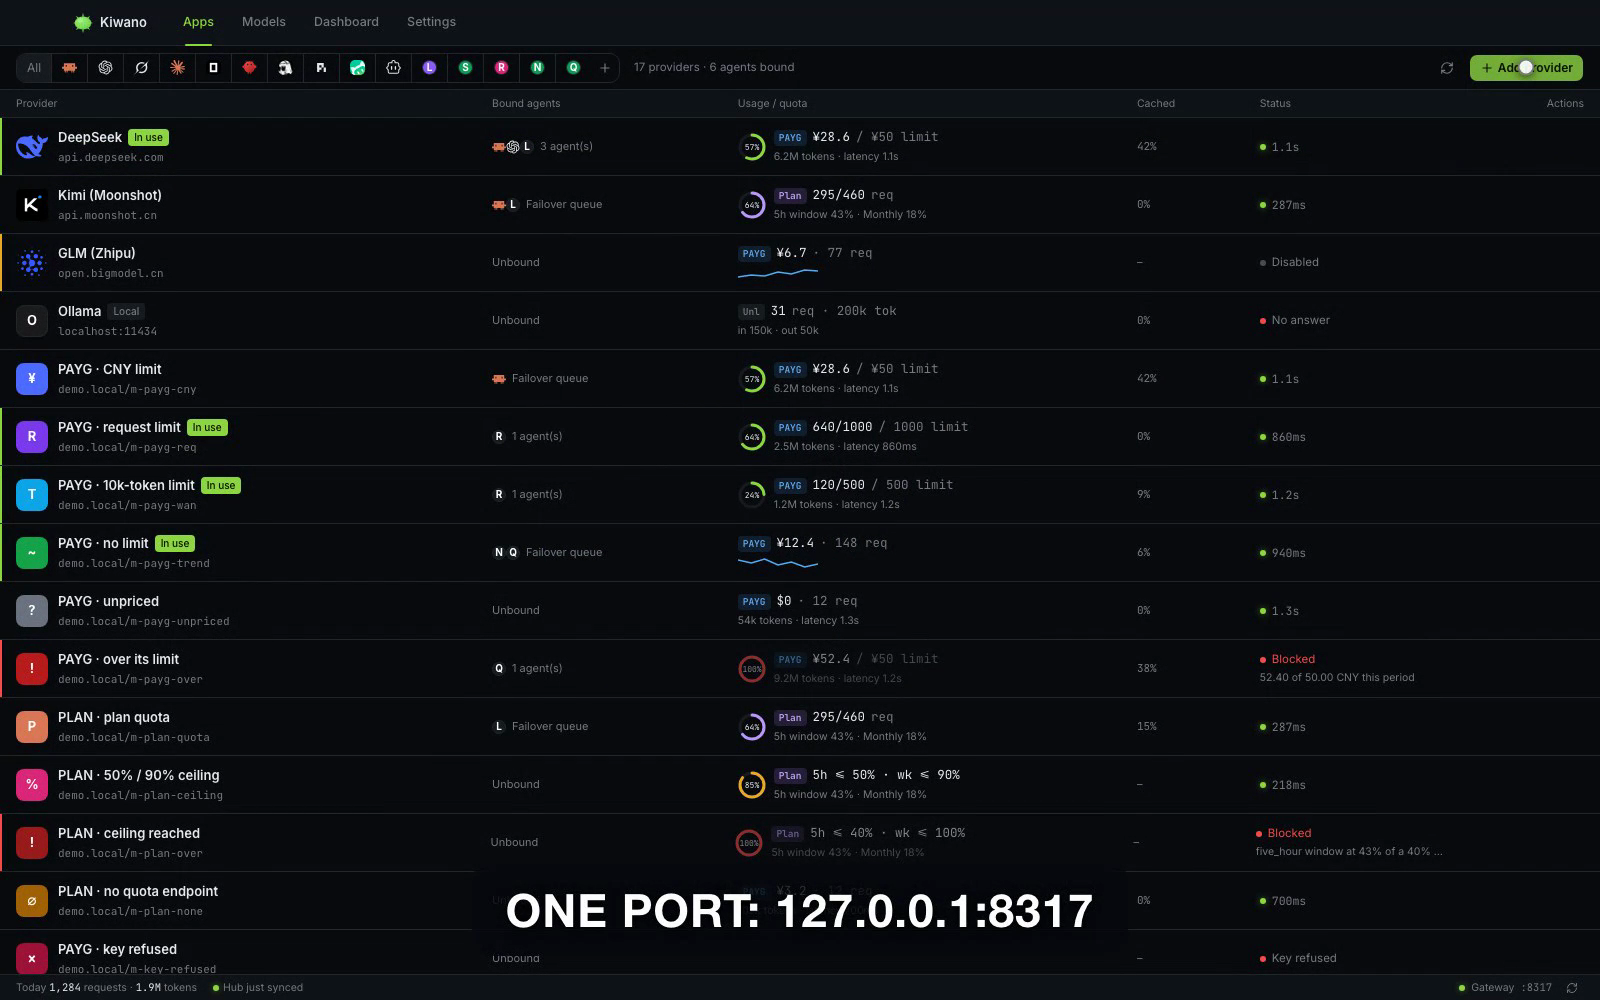
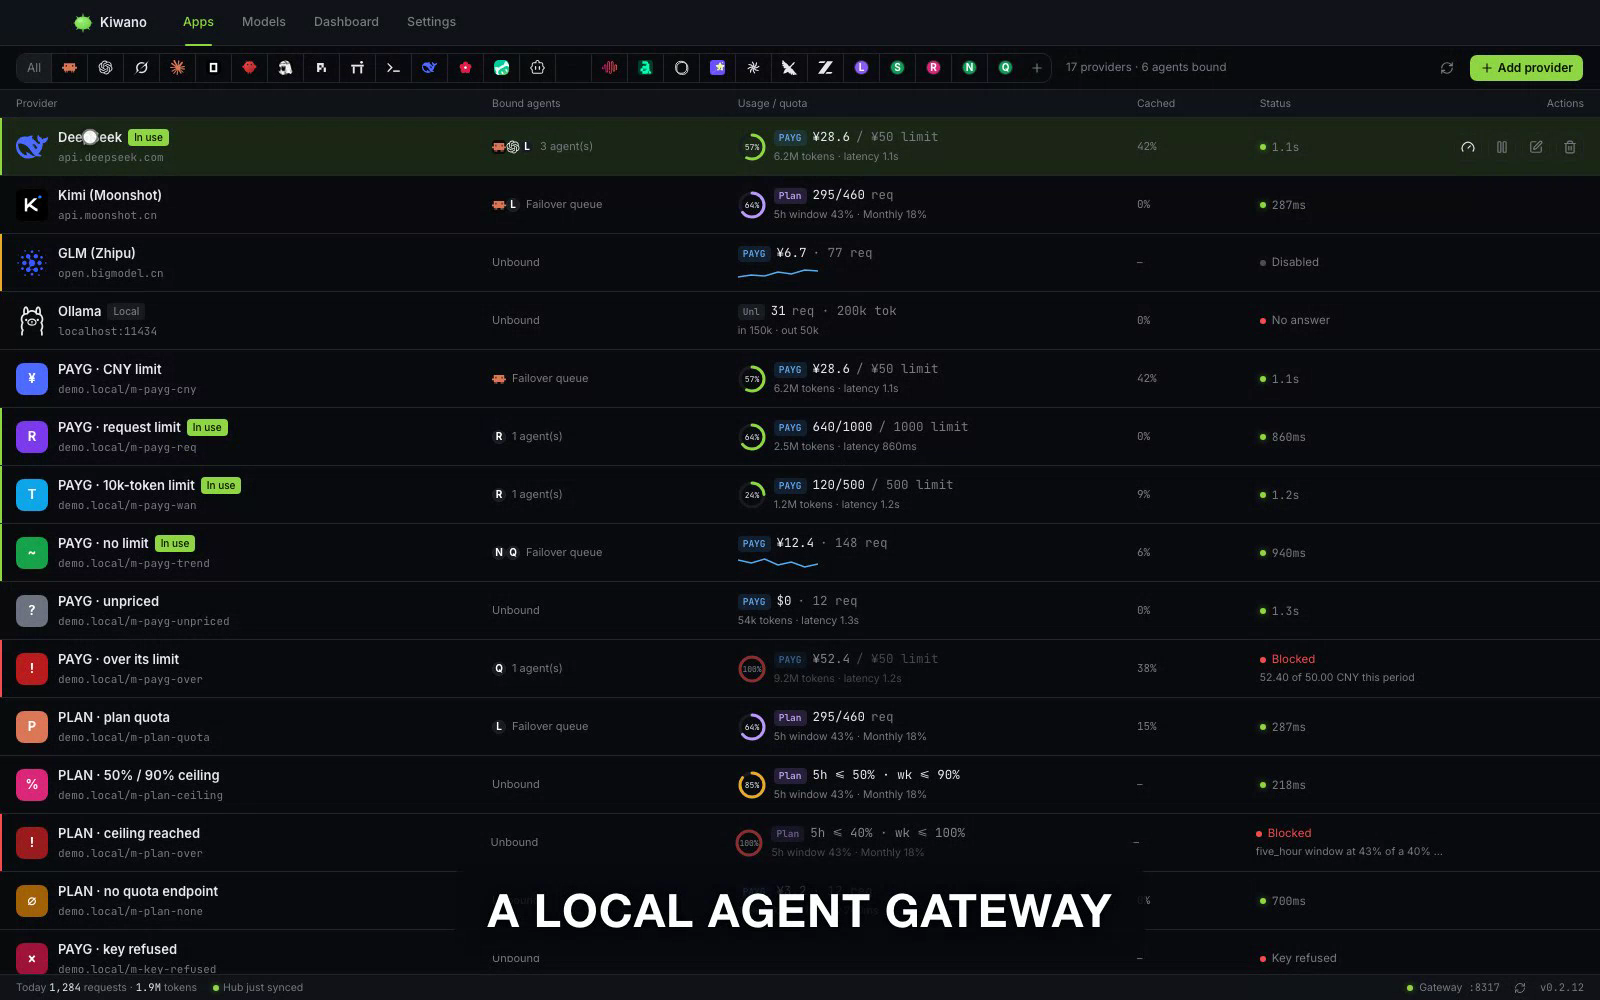
🎬 chore(promo): re-record the demo for the Apache-2.0 end card
The end card carried the licence, and it said GPLv3 — verified by extracting
the frame, not assumed. The recorder is scripted, so this is a re-run and a
re-cut rather than an edit: seven shots, same durations, same captions, and an
end card that now reads "Apache-2.0 · SIGNED PROVENANCE ON EVERY RELEASE".

Two things the re-record had to clean up first, both because the recording is
taken from `pnpm dev` (it needs the sample data) and therefore films things a
release build never shows:

- **The `DEV` pill.** It exists to warn whoever is *running* this window that it
  shares nothing with the installed app; a viewer of a 30-second demo only
  learns that this is not the product. The app marks that one element with
  `data-dev-badge` and the recorder's injected overlay hides it. The marker is
  unchanged for anyone running the app.
- **The credential banner.** The sample data carries a `dlp: github-token`
  finding, so the shell raised its "an API key or private key left the machine"
  bar over the opening shot — a warning about keys, in the first frame of a
  pitch about keys. The recorder now dismisses it the way a user would, and
  acknowledgement is recorded, so it stays down.

The cut is re-derived rather than reused. The windows in
`docs/promo/07-demo-script.md` described the September recording, and this run
lands ~0.8s earlier in places — replaying them would have cut the apps list
where the strategy dropdown belongs. They now come from the CAP timestamps the
[…]

diff --git a/app/src/App.tsx b/app/src/App.tsx
@@ -360,9 +360,17 @@ export default function App() {
             (import.meta.env.DEV is a build-time constant — vite dev serves
             true, `pnpm build` bakes false), so the installed app can never
             wear it. Amber, the caution colour: this window does not share
-            the installed app's database, gateway port or admin socket. */}
+            the installed app's database, gateway port or admin socket.
+
+            The hook is for the other thing built on top of this window: the
+            promo video is recorded from `pnpm dev` (it needs the sample data,
+            which only the dev build has), and a DEV pill in the corner of a
+            public demo says "this is not the product". The recorder hides
+            this one element by that attribute and nothing else — the marker
+            itself is unchanged for anyone running the app. */}
         {import.meta.env.DEV && (
           <span
+            data-dev-badge
             className="ml-auto select-none rounded-md px-2 py-0.5 font-mono text-[10px] font-semibold tracking-[0.12em]"
             style={{ color: "var(--amber)", background: "var(--amber-soft)", border: "1px solid var(--amber)" }}
           >

diff --git a/docs/promo/07-demo-script.md b/docs/promo/07-demo-script.md
@@ -46,21 +46,25 @@
 ## 成片制作记录(2026-09-20)
 
 **中间源片**(不入库):Playwright 录出的 webm,落在 `/tmp/kiwano-video/kiwano-demo-90s.webm`
-(~97s / VP8 / 1600×1000)。**90s 的 mp4 版本已删除**,仓库只留 30s 成片——中间片是重录产物,
+(~99s / VP8 / 1600×1000)。**90s 的 mp4 版本已删除**,仓库只留 30s 成片——中间片是重录产物,
 留着是负担,需要时一条命令从 webm 直出。
 
-**成片**:`docs/media/kiwano-demo-30s.mp4`(30.3s,**1.5 MB**)+ 封面帧
+**成片**:`docs/media/kiwano-demo-30s.mp4`(30.4s,**1.7 MB**)+ 封面帧
 `docs/media/kiwano-demo-poster.png`。从中间源片**原速剪出**(不做变速,字幕仍可读),七段硬切。
 
 | 成片内时间 | 取自源片 | 内容 |
 | --- | --- | --- |
-| 0.0–1.3 | 1.7–3.0 | 片头 KIWANO |
-| 1.3–4.8 | 7.0–10.5 | Apps 首屏 + **A LOCAL AGENT GATEWAY** |
-| 4.8–11.3 | 36.5–43.0 | 策略下拉展开 + FAILOVER 字幕 |
-| 11.3–17.8 | 52.5–59.0 | Dashboard 成本 + KEYS NEVER LEAVE 字幕 |
-| 17.8–21.8 | 62.5–66.5 | 日志详情弹窗 + AUDITABLE 字幕 |
-| 21.8–26.3 | 75.0–79.5 | **Settings → Features 列表** + OPT-IN FEATURES 字幕 |
-| 26.3–30.3 | 90.5–94.5 | 片尾 kiwano.cc / Apache-2.0 |
+| 0.0–1.3 | 1.8–3.1 | 片头 KIWANO |
+| 1.3–4.8 | 9.0–12.5 | Apps 首屏 + **A LOCAL AGENT GATEWAY** |
+| 4.8–11.3 | 34.5–41.0 | 策略下拉展开 + FAILOVER 字幕 |
+| 11.3–17.8 | 50.2–56.7 | Dashboard 成本 + KEYS NEVER LEAVE 字幕 |
+| 17.8–21.8 | 61.6–65.6 | 日志详情弹窗 + AUDITABLE 字幕 |
+| 21.8–26.3 | 73.8–78.3 | **Settings → Features 列表** + OPT-IN FEATURES 字幕 |
+| 26.3–30.3 | 88.5–92.5 | 片尾 kiwano.cc / Apache-2.0 |
+
+> "取自源片"是**这一次**录制的时刻。每次复录都不同(同一台机器上先后两次也能差
+> ±1s),所以要重剪时以脚本打印的 CAP 时间戳为准 —— 那才是这一刻每个字幕落在哪。
+> 上表是 2026-10-08 重录、也就是仓库里这个成片的来源。
 
 复录并重剪(从 webm 一步直出 30s 成片,不再生成 90s mp4 中间片):
 
@@ -73,10 +77,10 @@ node scripts/record-demo-video.cjs        # 会打印每条字幕的精确时间
 ffmpeg -i /tmp/kiwano-video/kiwano-demo-90s.webm \
   -f lavfi -i anullsrc=channel_layout=stereo:sample_rate=44100 \
   -filter_complex "[0:v]split=7[a][b][c][d][e][f][g];\
-[a]trim=start=1.7:end=3.0,setpts=PTS-STARTPTS[v0];[b]trim=start=7.0:end=10.5,setpts=PTS-STARTPTS[v1];\
-[c]trim=start=36.5:end=43.0,setpts=PTS-STARTPTS[v2];[d]trim=start=52.5:end=59.0,setpts=PTS-STARTPTS[v3];\
-[e]trim=start=62.5:end=66.5,setpts=PTS-STARTPTS[v4];[f]trim=start=75.0:end=79.5,setpts=PTS-STARTPTS[v5];\
-[g]trim=start=90.5:end=94.5,setpts=PTS-STARTPTS[v6];\
+[a]trim=start=1.8:end=3.1,setpts=PTS-STARTPTS[v0];[b]trim=start=9.0:end=12.5,setpts=PTS-STARTPTS[v1];\
+[c]trim=start=34.5:end=41.0,setpts=PTS-STARTPTS[v2];[d]trim=start=50.2:end=56.7,setpts=PTS-STARTPTS[v3];\
+[e]trim=start=61.6:end=65.6,setpts=PTS-STARTPTS[v4];[f]trim=start=73.8:end=78.3,setpts=PTS-STARTPTS[v5];\
+[g]trim=start=88.5:end=92.5,setpts=PTS-STARTPTS[v6];\
 [v0][v1][v2][v3][v4][v5][v6]concat=n=7:v=1:a=0[outv]" \
   -map "[outv]" -map 1:a -c:v libx264 -preset slow -crf 20 -pix_fmt yuv420p -r 25 \
   -c:a aac -b:a 64k -shortest -movflags +faststart docs/media/kiwano-demo-30s.mp4
@@ -89,7 +93,9 @@ ffmpeg -i /tmp/kiwano-video/kiwano-demo-90s.webm \
 > 为什么不再留长版:30s 覆盖全部卖点且字幕读得完;长版在 HN/Reddit 上的完播率
 > 明显更低,而仓库里多一个 4 MB 二进制是长期负担。视频站上传用 30s 版即可。
 
-**制作方式**:全自动录屏,零人工、零后期。
+**制作方式**:全自动录屏,零人工、零后期。录像前脚本做两件清理,理由都写在脚本里:
+关掉样例数据触发的那条「凭据离开本机」告警条(观众的第一眼不该是一条钥匙告警),
+以及隐藏 dev 构建的 `DEV` 角标(那是提示运行者用的,不是给看片的人看的)。
 
 1. 起前端 dev server(`app/` 下 `vite --port 1420`,纯浏览器模式走内置样例数据);
 2. Playwright 以 `recordVideo` 开 1600×1000 上下文,并 `addInitScript` 向页面注入三样东西:

diff --git a/docs/promo/08-checklist.md b/docs/promo/08-checklist.md
@@ -6,7 +6,7 @@
 ## A. 资产(第 0 号优先级)
 
 - [x] **演示视频** —— **已产出**(2026-09-20):`docs/media/kiwano-demo-30s.mp4`
-      (30.3s,H.264 1600×1000,静音轨,+faststart,**1.5 MB**)+ 封面 `kiwano-demo-poster.png`。
+      (30.4s,H.264 1600×1000,静音轨,+faststart,**1.7 MB**)+ 封面 `kiwano-demo-poster.png`。
       七段原速硬切:片头 → A LOCAL AGENT GATEWAY → 六种策略/FAILOVER → 成本 +
       KEYS NEVER LEAVE → 日志审计 → Settings Features 列表 → 片尾。
       分镜见 `07-demo-script.md`;复录/重剪方法见该文件「成片制作记录」。
